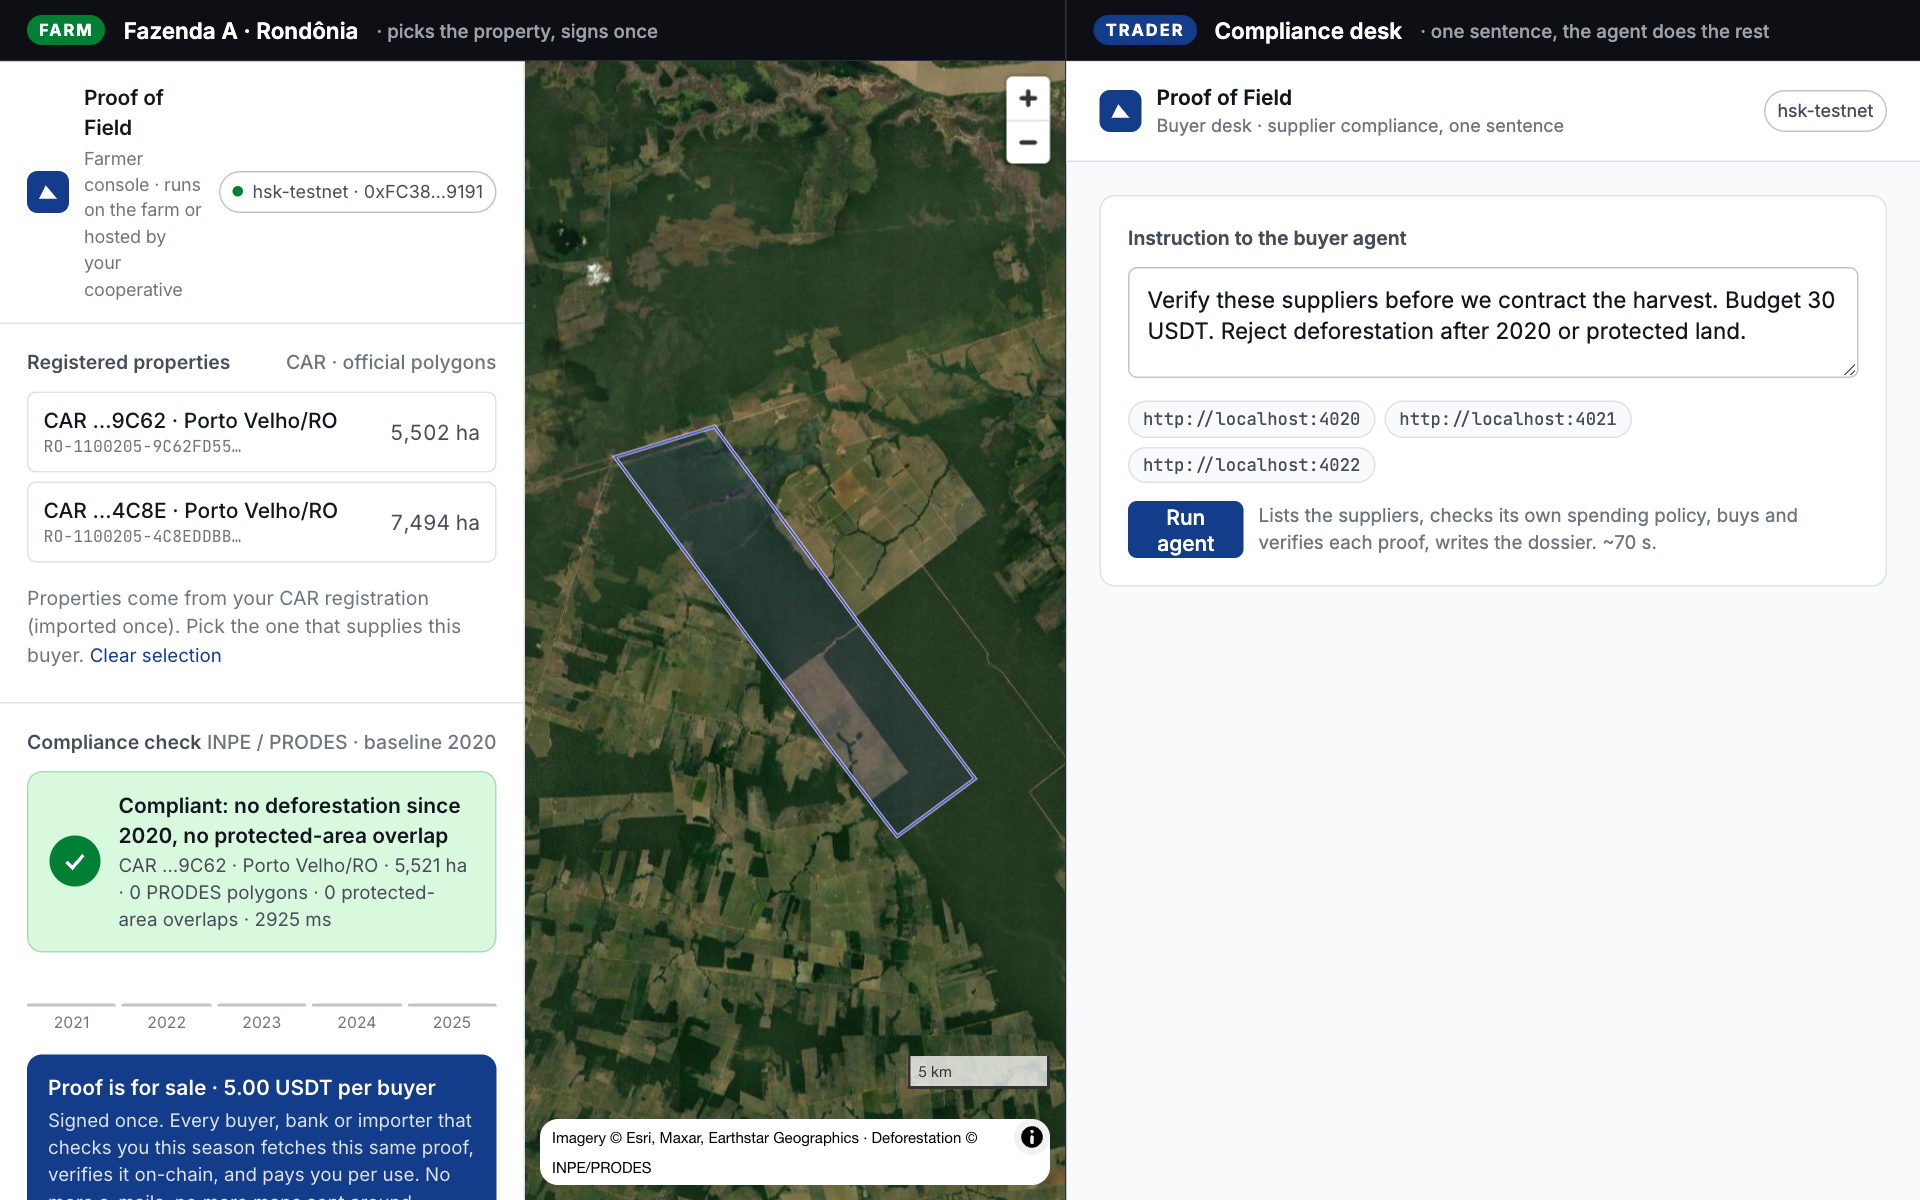
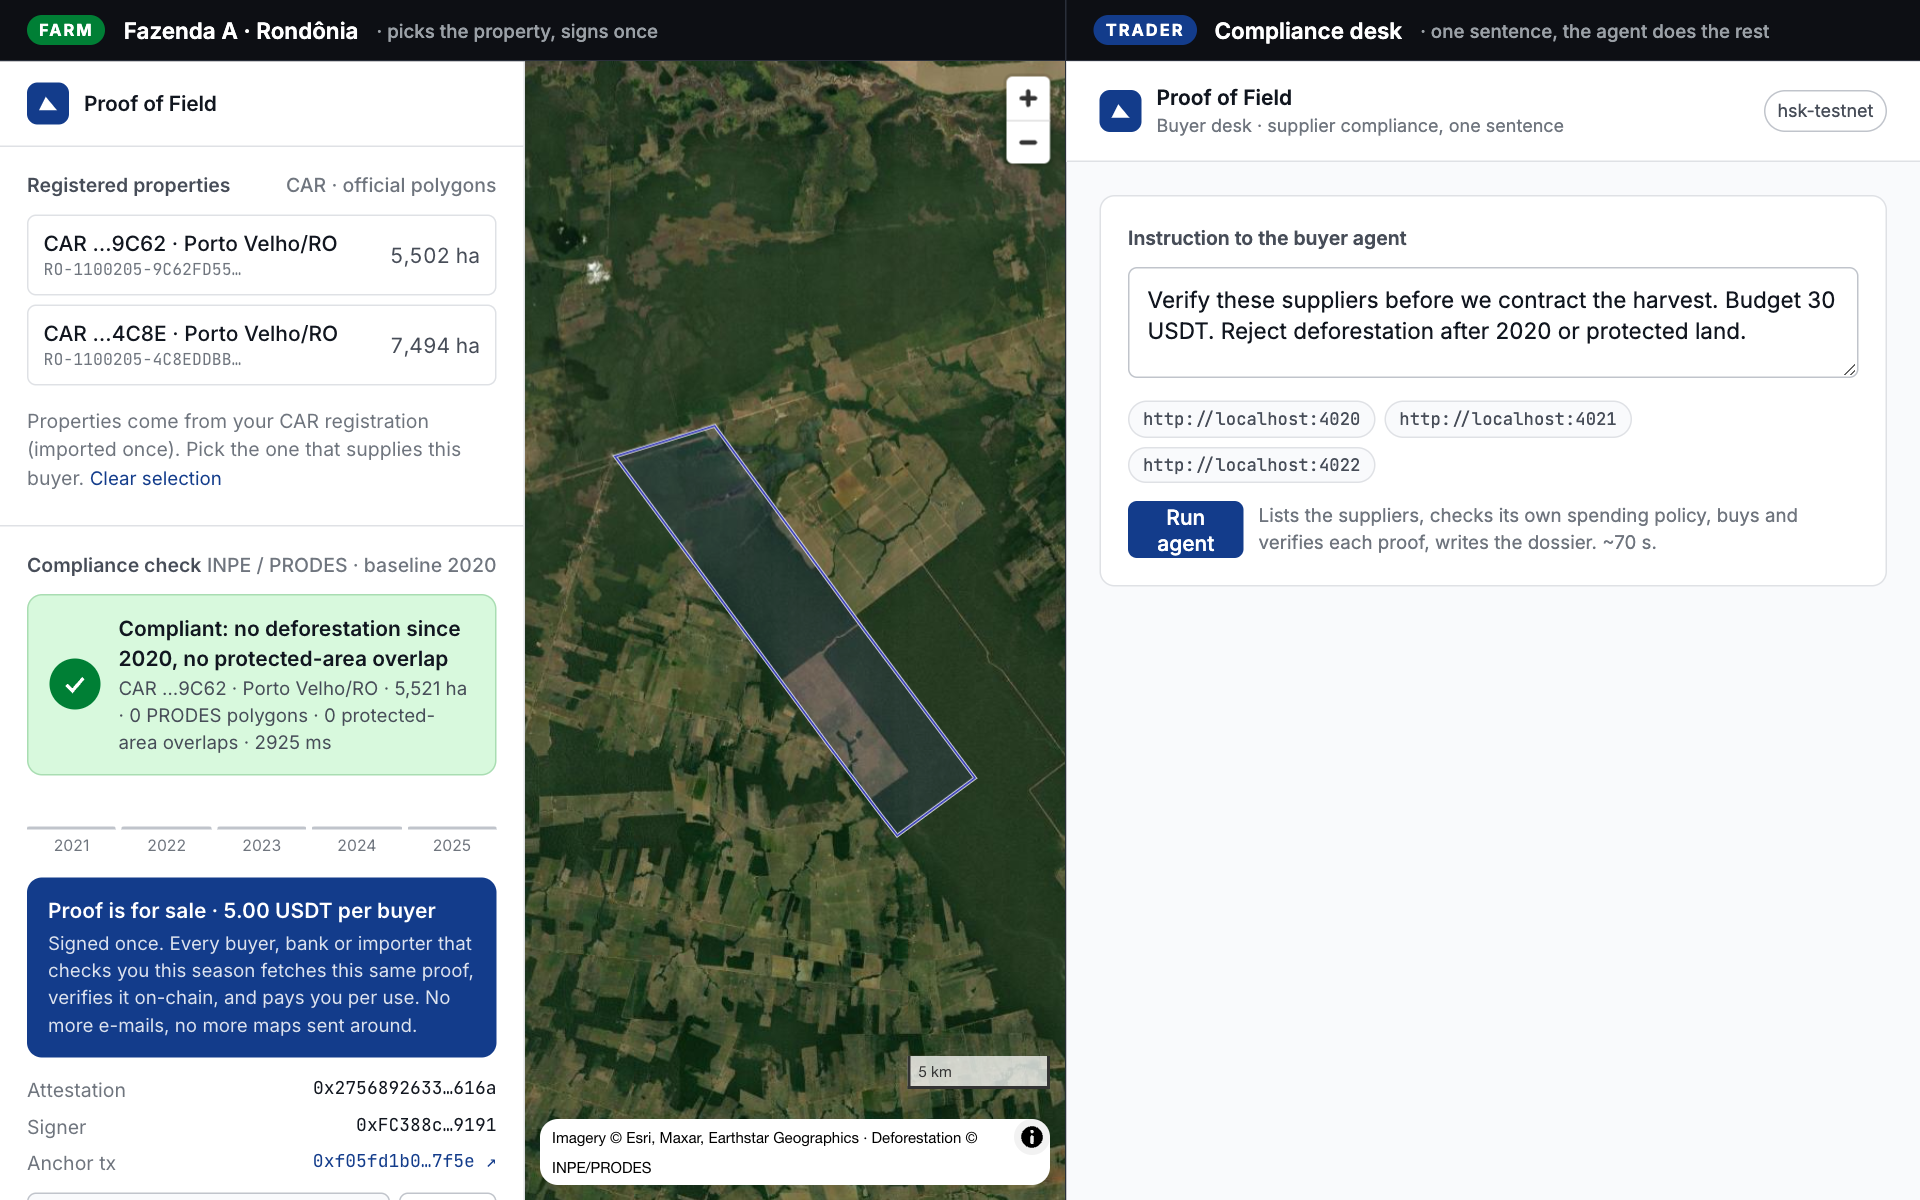
Console header compact in half-screen

diff --git a/apps/web/src/styles.css b/apps/web/src/styles.css
@@ -28,7 +28,7 @@ button { font: inherit; color: inherit; }
 code, .mono { font-family: var(--mono); font-size: 12px; }
 
 .app { display: grid; grid-template-columns: 400px 1fr; height: 100%; }
-@media (max-width: 960px) { .app { grid-template-columns: 350px 1fr; } .map-ui.bl { display: none; } .brand small { display: none; } .panel-head { padding: 12px 14px; } .chip { font-size: 11px; padding: 3px 7px; } .section { padding: 14px; } }
+@media (max-width: 960px) { .app { grid-template-columns: 350px 1fr; } .map-ui.bl { display: none; } .panel-head .brand small { display: none; } .panel-head .chip { display: none; } .panel-head { padding: 12px 14px; } .section { padding: 14px; } }
 @media (max-width: 560px) { .app { grid-template-columns: 1fr; grid-template-rows: 1fr 46vh; } .panel { order: 2; border-right: 0; border-top: 1px solid var(--line); } .panel-head { flex-wrap: wrap; } }
 
 /* ---------- panel ---------- */
